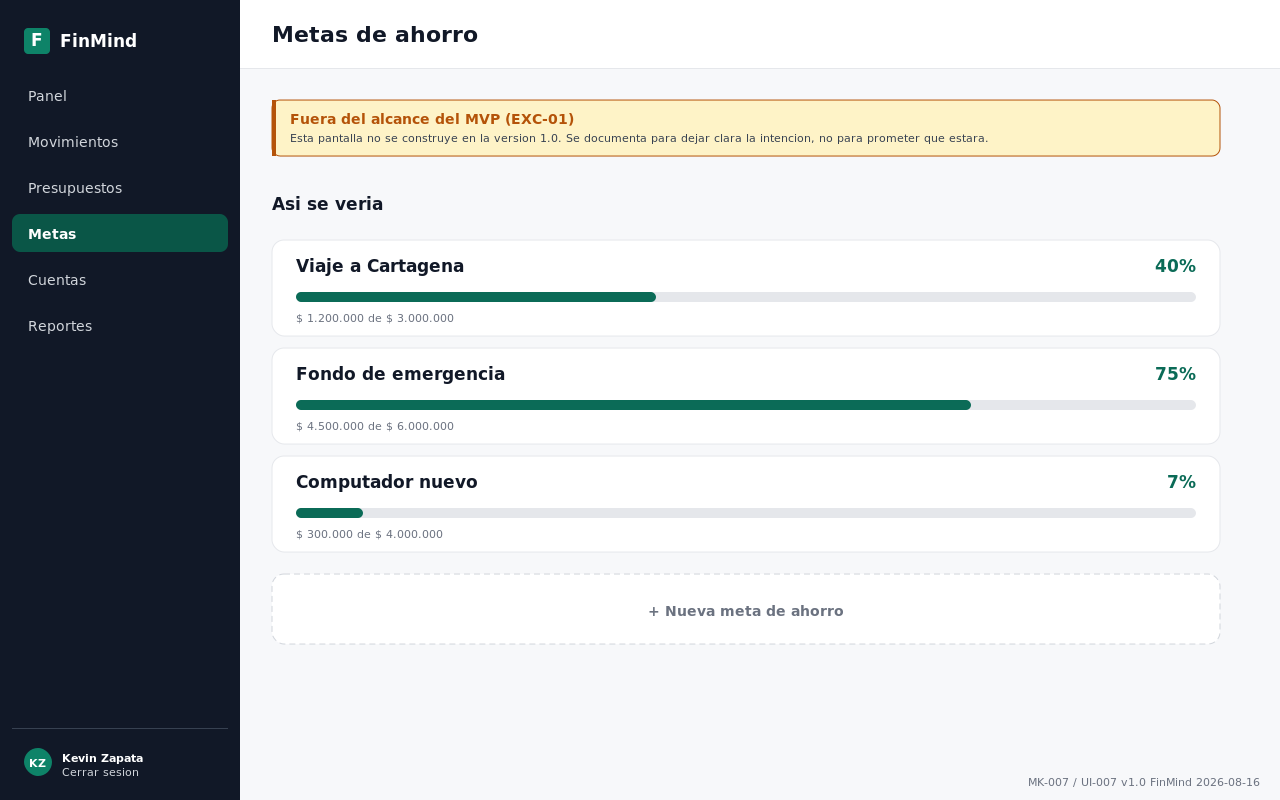
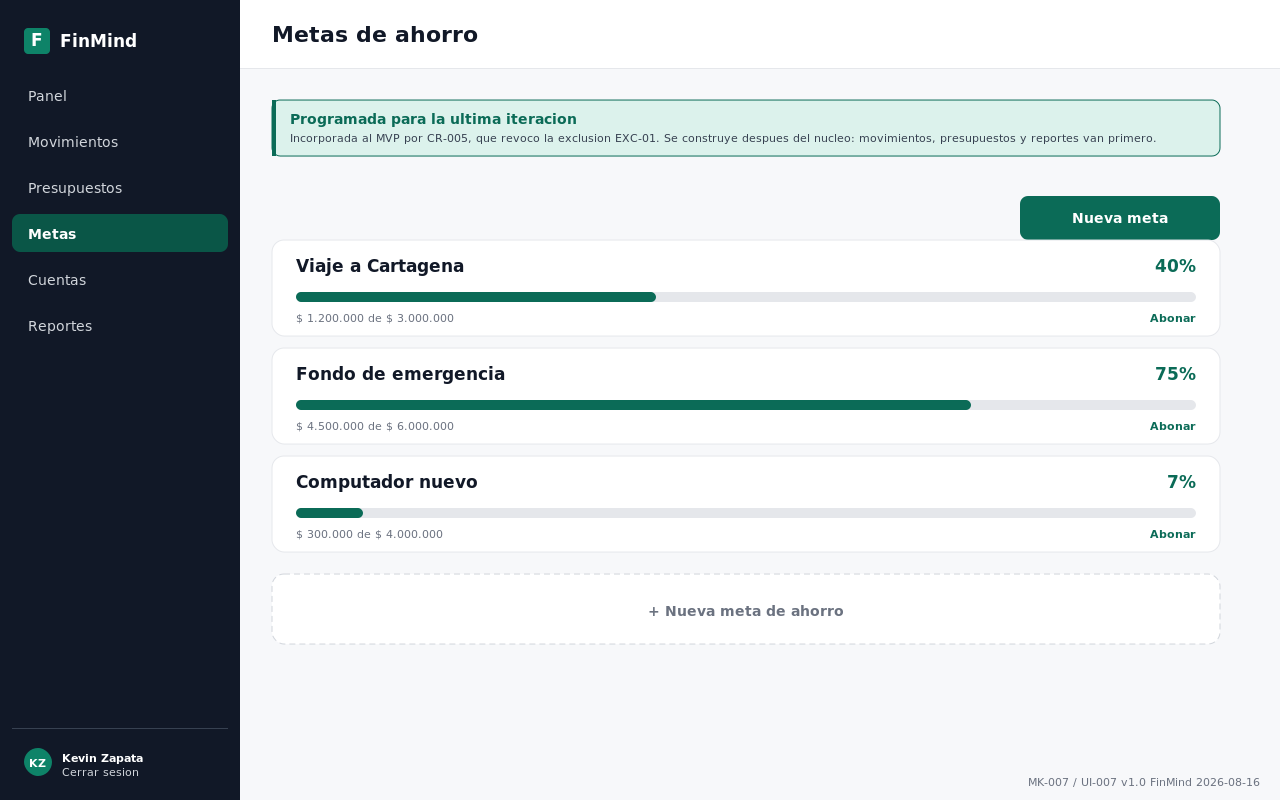
docs(diseno): UI-007 deja de estar marcada como excluida tras CR-005

diff --git a/docs/diseno/generador/pantallas3.py b/docs/diseno/generador/pantallas3.py
@@ -189,10 +189,10 @@ def ui009():
 # --------------------------------------------- UI-007 Metas de ahorro
 def ui007():
     o = shell("Metas de ahorro", "Metas")
-    o.append(aviso(272, 100, 948, "Fuera del alcance del MVP (EXC-01)",
-                   "Esta pantalla no se construye en la version 1.0. Se documenta para dejar clara "
-                   "la intencion, no para prometer que estara.", "warn"))
-    o.append(txt(272, 210, "Asi se veria", "font.heading.md", N9))
+    o.append(aviso(272, 100, 948, "Programada para la ultima iteracion",
+                   "Incorporada al MVP por CR-005, que revoco la exclusion EXC-01. Se construye despues "
+                   "del nucleo: movimientos, presupuestos y reportes van primero.", "info"))
+    o.append(boton(1020, 196, 200, 44, "Nueva meta"))
     metas = [("Viaje a Cartagena", "$ 1.200.000", "$ 3.000.000", 0.40),
              ("Fondo de emergencia", "$ 4.500.000", "$ 6.000.000", 0.75),
              ("Computador nuevo", "$ 300.000", "$ 4.000.000", 0.075)]
@@ -204,10 +204,11 @@ def ui007():
         o.append(rect(296, y + 52, 900, 10, N2, 5))
         o.append(rect(296, y + 52, int(900 * pct), 10, P6, 5))
         o.append(txt(296, y + 82, f"{actual} de {meta}", "font.caption", N5))
+        o.append(txt(1196, y + 82, "Abonar", "font.caption", P6, "end", weight=600))
         y += 108
     o.append(rect(272, y + 10, 948, 70, S, RL, N3, dash="6 4"))
     o.append(txt(746, y + 52, "+  Nueva meta de ahorro", "font.body.md", N5, "middle", weight=600))
     pie(o, W, H, "MK-007 / UI-007")
-    return svg(W, H, o, "UI-007 Metas de ahorro, fuera del MVP",
-               "Boceto de metas de ahorro con barras de progreso, marcado desde arriba como excluido "
-               "de la version 1.0 segun EXC-01.")
+    return svg(W, H, o, "UI-007 Metas de ahorro",
+               "Listado de metas con barra de avance, monto acumulado sobre objetivo y porcentaje. "
+               "Incluye accion para crear una meta nueva y abonar a las existentes.")
